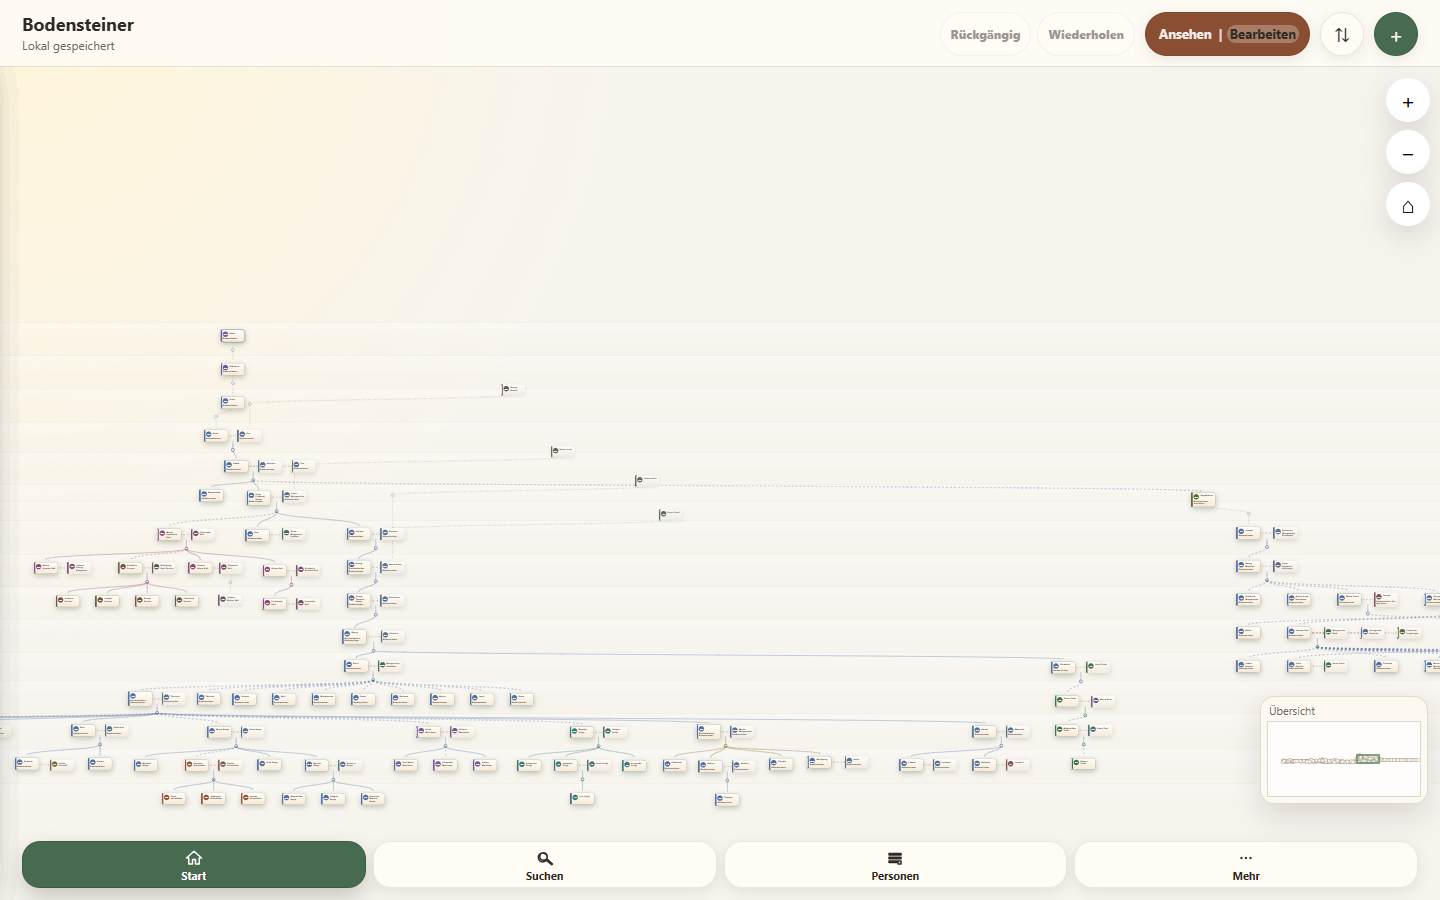
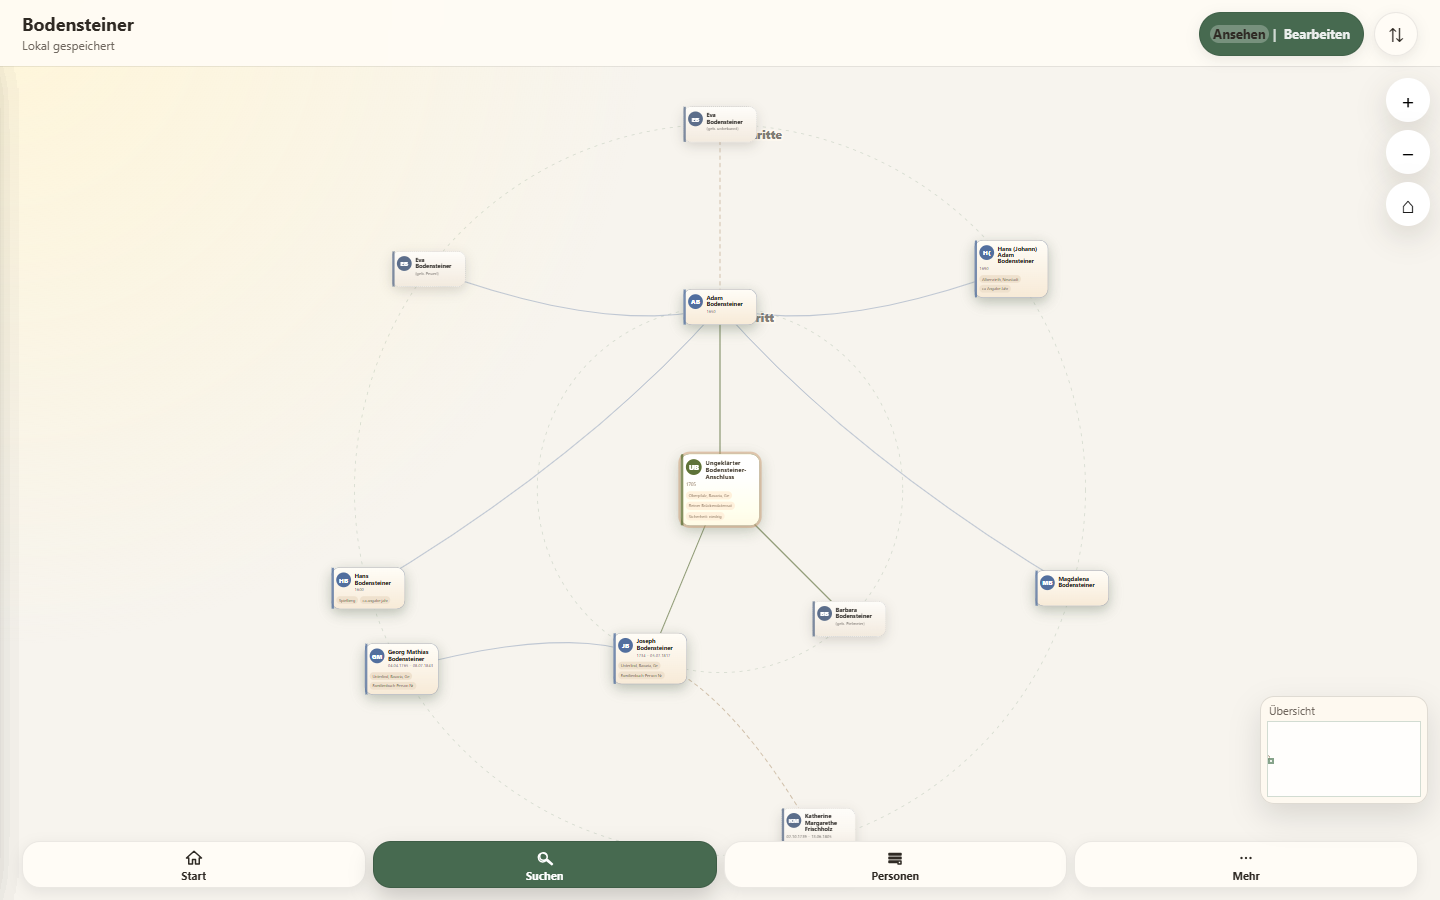
Activate connected family branches

diff --git a/tests/familybook-v5.spec.js b/tests/familybook-v5.spec.js
@@ -33,24 +33,11 @@ test('bereinigter US-Zweig lädt, ist verknüpft und visuell prüfbar', async ({
   await page.getByTestId('import-confirm').click();
 
   await expect.poll(() => page.evaluate(() => window.__uxDebug.getDataSnapshot().people.length), { timeout: 60_000 }).toBe(4338);
-  expect(await page.evaluate(() => window.__uxDebug.getDataSnapshot().people.find(person => person.id === 'fb0001')?.parents)).toEqual(['fbbridge0001']);
-  expect(await page.evaluate(() => window.__uxDebug.getDataSnapshot().people.find(person => person.id === 'fbbridge0001')?.parents)).toEqual(['p334', 'p335']);
-
-  await page.evaluate(() => {
-    const left = window.__uxDebug.getPerson('p334');
-    const right = window.__uxDebug.getPerson('fbbridge0001');
-    const dx = Math.abs(right.x - left.x);
-    const dy = Math.abs(right.y - left.y);
-    const scale = Math.max(0.18, Math.min(0.55, 900 / Math.max(dx, 1), 500 / Math.max(dy, 1)));
-    window.__uxDebug.setViewForTest({
-      x: -((left.x + right.x) / 2) * scale,
-      y: -((left.y + right.y) / 2) * scale,
-      s: scale,
-    });
-  });
-  await expect(page.getByTestId('person-card-p334')).toBeInViewport();
-  await expect(page.getByTestId('person-card-fbbridge0001')).toBeInViewport();
-  await page.screenshot({ path: path.join(screenshotDir, 'anschluss-uebersicht-1440x900.png') });
+  const importedState = await page.evaluate(() => window.__uxDebug.getDataSnapshot());
+  expect(importedState.people.filter(person => !person.pool)).toHaveLength(3245);
+  expect(importedState.people.filter(person => person.pool)).toHaveLength(1093);
+  expect(importedState.people.find(person => person.id === 'fb0001')?.parents).toEqual(['fbbridge0001']);
+  expect(importedState.people.find(person => person.id === 'fbbridge0001')?.parents).toEqual(['p334', 'p335']);
 
   await page.getByTestId('person-search-open').click();
   await page.getByTestId('person-search').fill('Ungeklärter Bodensteiner-Anschluss');
@@ -58,6 +45,13 @@ test('bereinigter US-Zweig lädt, ist verknüpft und visuell prüfbar', async ({
   await expect(page.getByTestId('person-dialog')).toBeVisible();
   await page.getByTestId('person-dialog-close').click();
   await page.getByTestId('person-search-close').click();
+  await page.evaluate(() => window.__uxDebug.setLayoutModeForTest('radial'));
+  await expect(page.getByTestId('person-card-p334')).toBeInViewport();
+  await expect(page.getByTestId('person-card-fbbridge0001')).toBeInViewport();
+  await expect(page.getByTestId('person-card-fb0001')).toBeInViewport();
+  await page.screenshot({ path: path.join(screenshotDir, 'anschluss-uebersicht-1440x900.png') });
+
+  await page.evaluate(() => window.__uxDebug.setLayoutModeForTest('classic'));
   await expect(page.getByTestId('person-card-fbbridge0001')).toBeVisible();
   await expect(page.getByTestId('person-card-fb0001')).toBeVisible();
   await expect(page.getByTestId('person-card-fb0002')).toBeVisible();

diff --git a/tests/rebuild-v5-connected-layout.spec.js b/tests/rebuild-v5-connected-layout.spec.js
@@ -1,0 +1,68 @@
+const fs = require('node:fs');
+const path = require('node:path');
+const { test, expect } = require('@playwright/test');
+
+const jsonPath = path.resolve(__dirname, '..', 'stammbaum_mit_familienbuch_full_v5_bereinigt.json');
+const enabled = process.env.REBUILD_V5_CONNECTED_LAYOUT === '1' && fs.existsSync(jsonPath);
+const tree = enabled ? JSON.parse(fs.readFileSync(jsonPath, 'utf8')) : null;
+
+test.setTimeout(300_000);
+test.skip(!enabled, 'Nur als expliziter V5-Datenpflege-Lauf ausführen.');
+
+test('ordnet den vollständig verbundenen aktiven V5-Baum neu an', async ({ page }) => {
+  const pageErrors = [];
+  page.on('pageerror', error => pageErrors.push(error.message));
+  await page.addInitScript(() => {
+    localStorage.setItem('mobile-family-tree-v5-clean', JSON.stringify({
+      rootIds: ['layout-bootstrap'],
+      people: [{
+        id: 'layout-bootstrap',
+        name: 'Layout Bootstrap',
+        x: 500,
+        y: 300,
+        parents: [],
+        partners: [],
+      }],
+    }));
+    localStorage.setItem('mobile-family-tree-v5-clean-help-seen-v1', JSON.stringify(['pan-zoom', 'search', 'edit']));
+  });
+
+  await page.goto('/?ux-debug=1');
+  await page.getByTestId('welcome-continue').click();
+  await page.getByTestId('app-mode-toggle').click();
+  await page.locator('#fileInput').setInputFiles({
+    name: path.basename(jsonPath),
+    mimeType: 'application/json',
+    buffer: Buffer.from(JSON.stringify(tree)),
+  });
+  await page.getByTestId('import-confirm').click();
+  await expect.poll(
+    () => page.evaluate(() => window.__uxDebug.getDataSnapshot().people.length),
+    { timeout: 90_000 }
+  ).toBe(4338);
+
+  await page.getByTestId('main-nav-more').click();
+  await page.getByTestId('layout-auto').click();
+  await page.getByTestId('decision-confirm').click();
+  await expect.poll(
+    () => page.getByTestId('busy-indicator').getAttribute('aria-hidden'),
+    { timeout: 240_000 }
+  ).toBe('true');
+
+  const result = await page.evaluate(() => window.__uxDebug.getExportDataForTest());
+  fs.writeFileSync(jsonPath, `${JSON.stringify(result, null, 2)}\n`, 'utf8');
+
+  const activePeople = result.people.filter(person => !person.pool);
+  const occupiedCoordinates = new Set();
+  const duplicateCoordinates = [];
+  for (const person of activePeople) {
+    const key = `${person.x},${person.y}`;
+    if (occupiedCoordinates.has(key)) duplicateCoordinates.push(key);
+    occupiedCoordinates.add(key);
+  }
+
+  expect(activePeople).toHaveLength(3245);
+  expect(result.people.filter(person => person.pool)).toHaveLength(1093);
+  expect(duplicateCoordinates).toEqual([]);
+  expect(pageErrors).toEqual([]);
+});

diff --git a/modules/app-runtime.js b/modules/app-runtime.js
@@ -5119,6 +5119,10 @@ function autoLayout(saveResult = true) {
   anchorInLawAncestorBranches();
   interlockRootBranches();
   compressEmptyHorizontalSpace();
+  // Partner- und Seitenzweig-Ausrichtung kann zuvor getrennte Einheiten wieder
+  // auf dieselbe Kartenposition schieben. Daher die endgültigen Reihen erst
+  // nach allen strukturverändernden Verschiebungen nochmals entzerren.
+  resolveRowOverlaps();
 
   if (saveResult) {
     clearGeneratedLayoutState();
